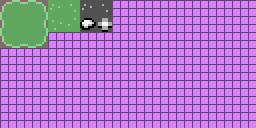
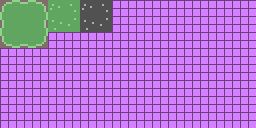
reworked temporary stone graphics and added debug statements

Changed region(s): [[0.3125, 0.125, 0.4375, 0.25]]

diff --git a/src/level/level.cpp b/src/level/level.cpp
@@ -316,6 +316,7 @@ void Level::try_spawn(int count)
 
 void Level::tick()
 {
+    dbg_printf("Begin of tick\n");
     // dbg_printf("Tick Started\n");
     tick_timer++;
     // only spwan every 16 ticks
@@ -334,6 +335,7 @@ void Level::tick()
         get_tile(xt, yt)->tick(this, xt, yt, 1);
         tiles_tick_amount++;
     }
+    dbg_printf("ticked frequent tiles\n");
 
     // Update the tiles that are not visible less frequent but in larger increments.
     const int AMOUNT_OF_TILES_TO_TICK_INFREQUENTLY{(width * height - AMOUNT_OF_TILES_TO_TICK_FREQUENTLY) / 50 /
@@ -357,6 +359,7 @@ void Level::tick()
             tiles_tick_amount++;
         }
     }
+    dbg_printf("ticked infrequent tiles\n");
 
     // dbg_printf("ticking entities\n");
     // dbg_printf("entities size: %i\n", entities->size());
@@ -371,6 +374,7 @@ void Level::tick()
         screen_entities->add_all(tick_entities);
         delete tick_entities;
     }
+    dbg_printf("got the entities\n");
 
     // int amount = entities->size() > 10 ? 10 : entities->size();
     // dbg_printf("screen_entities size: %i\n", screen_entities->size());
@@ -407,6 +411,7 @@ void Level::tick()
             }
         }
     }
+    dbg_printf("ticked entities\n");
 
     // delete tick_entities;
     if (player != nullptr)
@@ -414,6 +419,7 @@ void Level::tick()
         x_offset = player->x - GFX_LCD_WIDTH / 2 + 16;
         y_offset = player->y - GFX_LCD_HEIGHT / 2 + 32;
     }
+    dbg_printf("end of tick\n");
 }
 
 /* Gets all the entities from a square area of 4 points. The pointer that gets returned has to be DELETED!!!*/

diff --git a/src/game.cpp b/src/game.cpp
@@ -169,7 +169,8 @@ void Game::reset()
     player->inventory->add(new Tool_item(Tool_type::sword, 0));
     player->inventory->add(new Tool_item(Tool_type::sword, 0));
     player->inventory->add(new Tool_item(Tool_type::sword, 1));*/
-    player->inventory->add(new Resource_item(Resource::apple, 1));
+    player->inventory->add(new Resource_item(Resource::apple));
+    player->inventory->add(new Resource_item(Resource::apple));
     player->find_start_pos(level);
     level->add(player);
 

diff --git a/src/entity/player.cpp b/src/entity/player.cpp
@@ -137,6 +137,7 @@ void Player::tick()
             stamina--;
             stamina_recharge = 0;
             attack();
+            dbg_printf("Back from attack\n");
         }
     }
 
@@ -154,6 +155,7 @@ void Player::tick()
     {
         attack_time--;
     }
+    dbg_printf("reached the end of tick\n");
 }
 
 void Player::change_level(int8_t dir)
